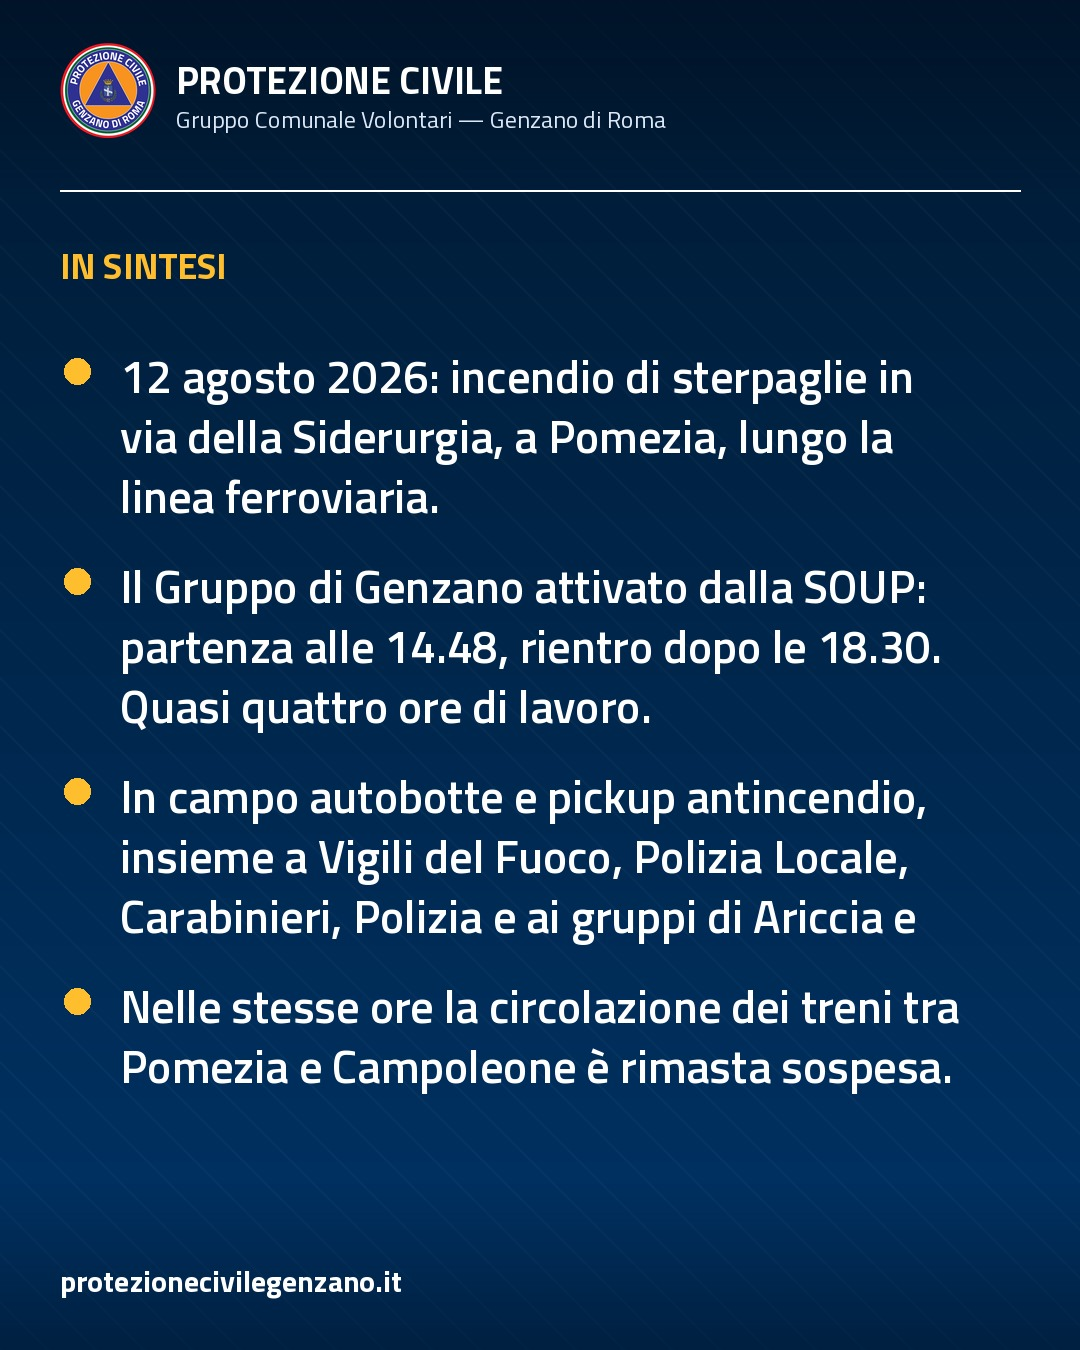
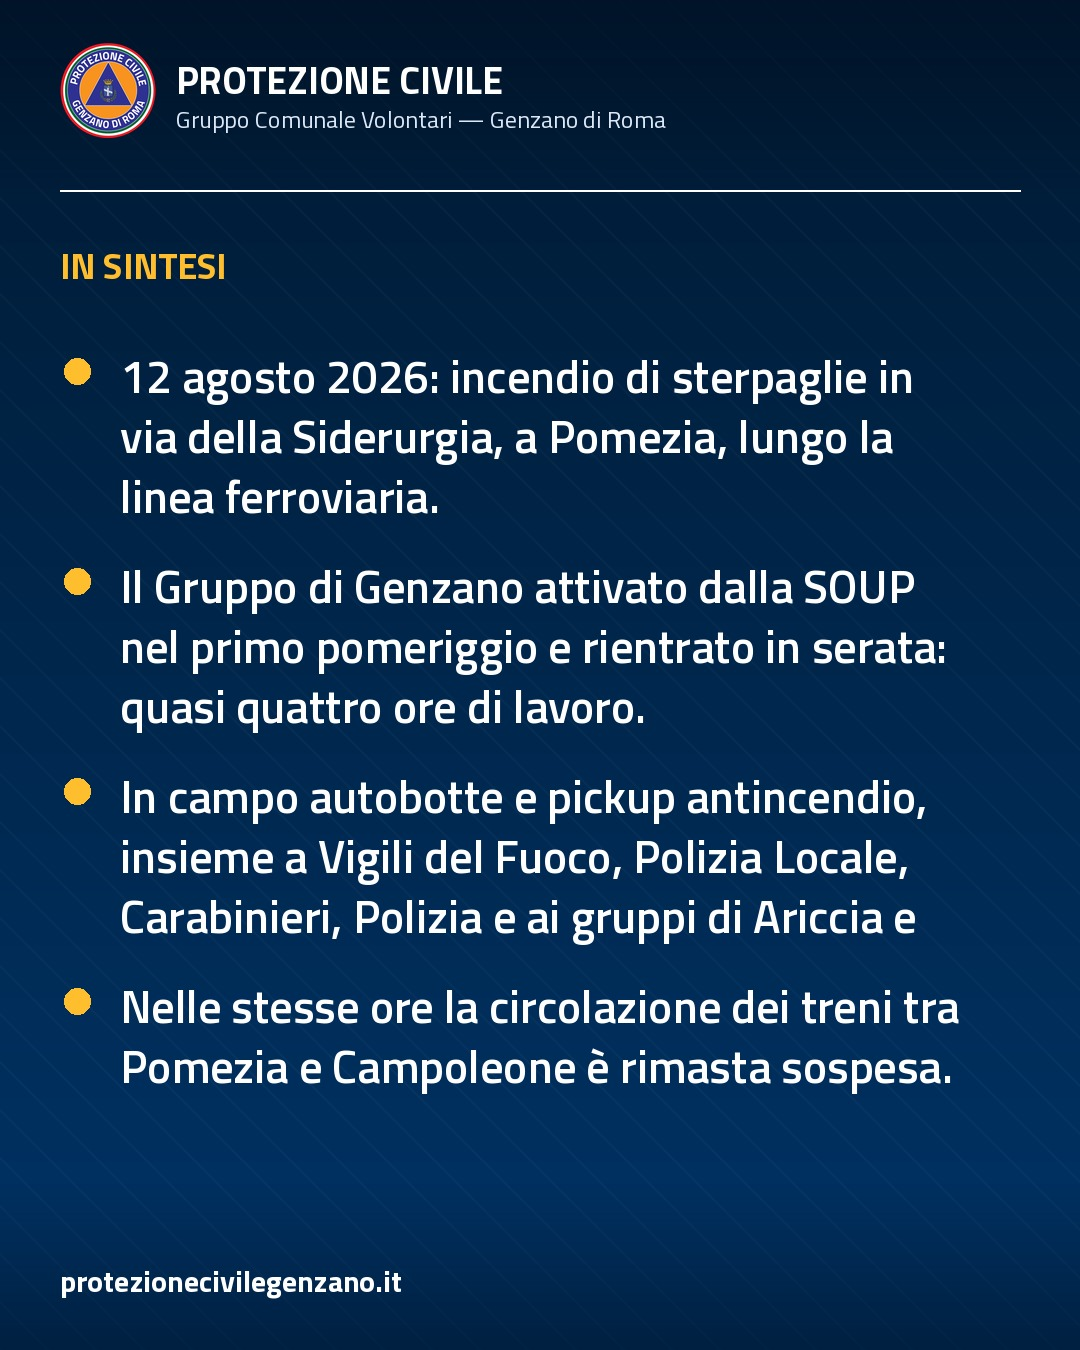
[skip-social] Bozze social Pomezia: carosello con le foto, orari arrotondati (#822)
Carosello rigenerato con le sette foto dell'intervento (10 slide), storia aggiornata, testi Instagram e Telegram allineati agli orari arrotondati.

Changed region(s): [[0.1222, 0.4667, 0.8861, 0.56]]

diff --git a/social-bozze/2026/08/2026-08-12-incendio-pomezia-siderurgia-ferrovia/README.md b/social-bozze/2026/08/2026-08-12-incendio-pomezia-siderurgia-ferrovia/README.md
@@ -11,7 +11,7 @@ Il numero del carosello è l'ordine di caricamento.
 
 | File | Dove si pubblica |
 |---|---|
-| `feed-carosello-1.jpg`, `feed-carosello-2.jpg`, `feed-carosello-3.jpg`, `feed-carosello-4.jpg` | FEED Instagram + Facebook — carosello: caricale **tutte, in ordine** (1080×1350) |
+| `feed-carosello-1.jpg`, `feed-carosello-2.jpg`, `feed-carosello-3.jpg`, `feed-carosello-4.jpg`, `feed-carosello-5.jpg`, `feed-carosello-6.jpg`, `feed-carosello-7.jpg`, `feed-carosello-8.jpg`, `feed-carosello-9.jpg`, `feed-carosello-10.jpg` | FEED Instagram + Facebook — carosello: caricale **tutte, in ordine** (1080×1350) |
 | `storia.jpg` | STORIE Instagram + Facebook — verticale, sparisce dopo 24h (1080×1920) |
 | `instagram.txt` | testo per Instagram |
 | `facebook.txt` | testo per Facebook (anteprima OG dall'URL) |
